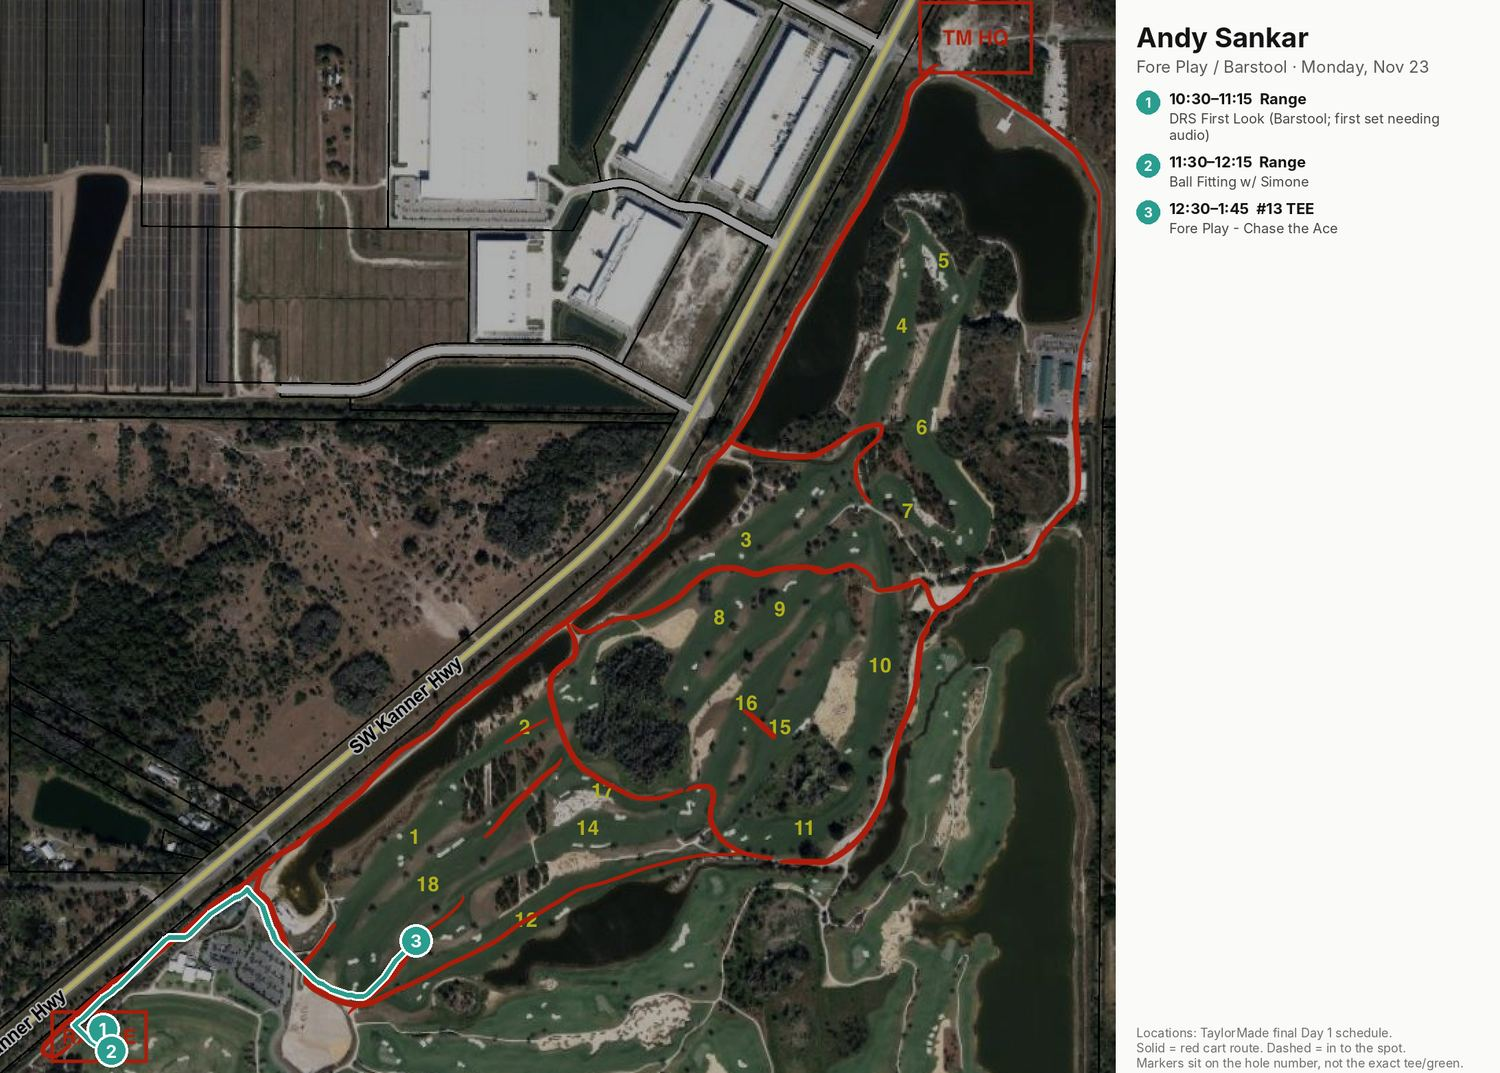
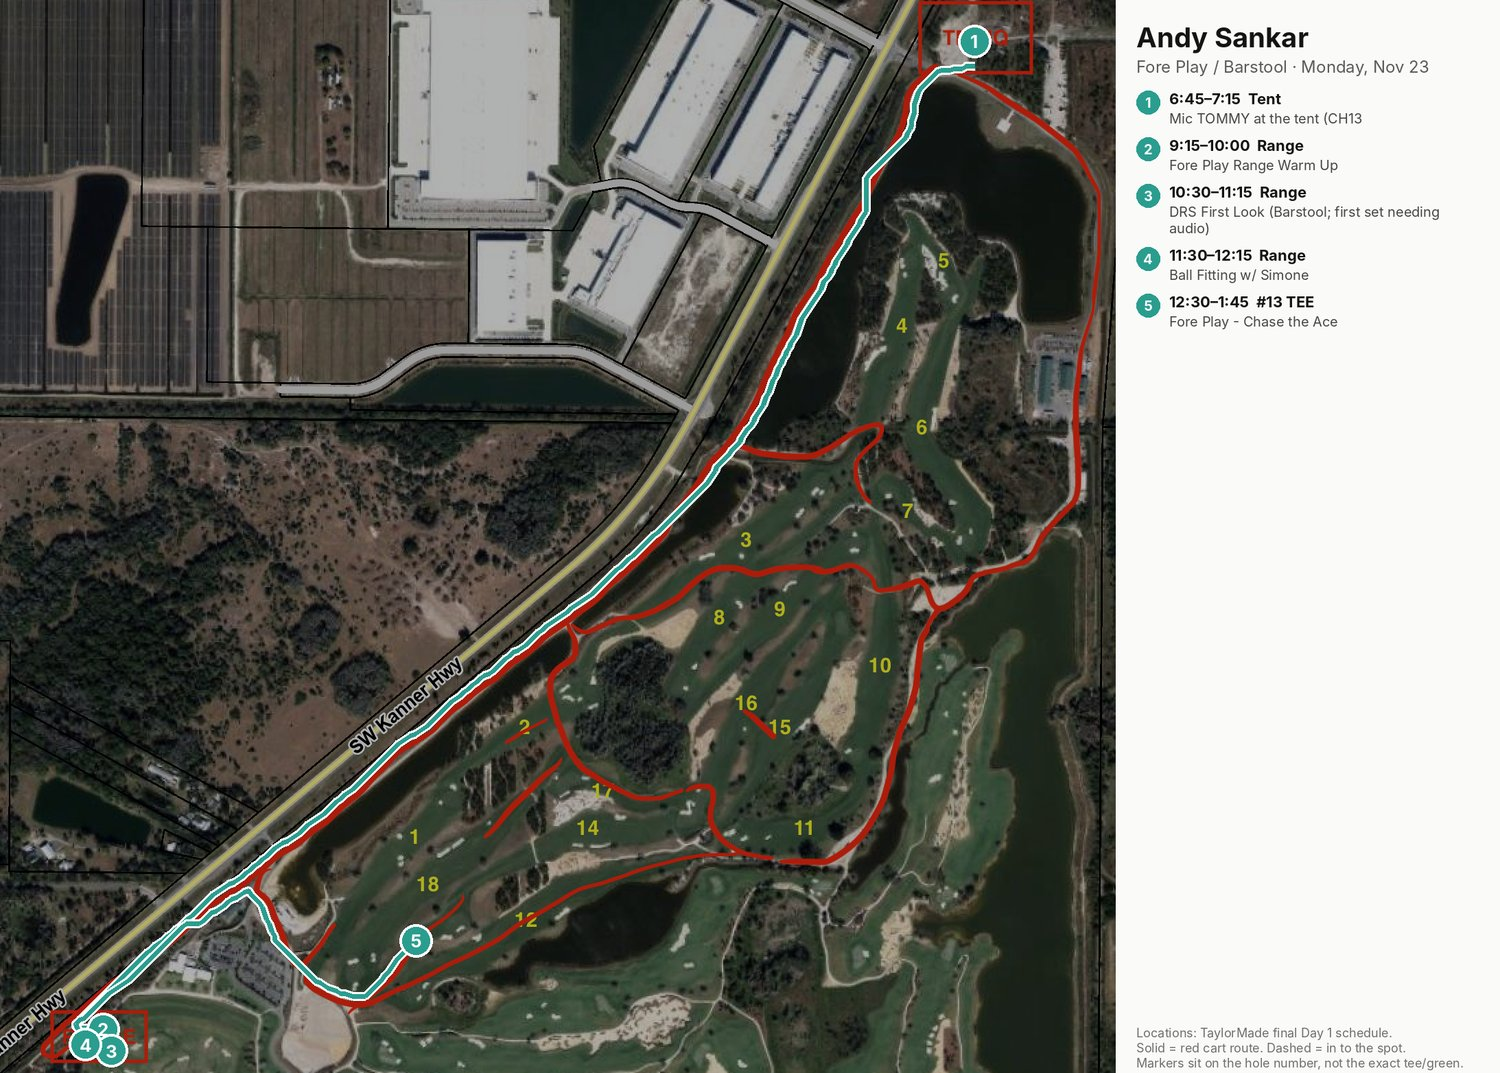
My route at top of My Day for all crew, zoomable in-page; refreshed Monday maps (tent mic-ups, Brandon range, Fore Play) + maps for Tim, Heather, Adriana, Freddie
Claude-Session: https://claude.ai/code/session_01Cu9tCEs3nu2uXZXxK9FtRu

diff --git a/index.html b/index.html
@@ -340,7 +340,7 @@ button.ml{appearance:none}
 }
 @media (max-width:640px){nav{overflow-x:auto;scrollbar-width:none;-webkit-overflow-scrolling:touch}nav::-webkit-scrollbar{display:none}nav button{flex:1 1 auto!important;padding-left:3px!important;padding-right:3px!important;letter-spacing:0!important;font-size:.74rem!important}}
 .rfl{display:flex;flex-direction:column;gap:2px;margin-top:3px;font-size:.88em}.rfl span{color:var(--ink,#222)}.rfl i{font-style:normal;color:var(--muted,#666);font-variant-numeric:tabular-nums}.md-rf{font-size:.9rem;background:rgba(31,107,69,.08);border-radius:8px;padding:8px 10px}.bu-sel{font:inherit;font-size:.78rem;padding:2px 4px;border-radius:6px;border:1px solid var(--rule,#ccc);background:var(--bg,#fff);color:inherit;max-width:100%}@media print{.bu-sel{border:0;-webkit-appearance:none;appearance:none;background:none;padding:0}}.md-pick{display:flex;gap:10px;align-items:center;margin:6px 0 12px}.md-pick label{font-weight:600}.md-pick select{font:inherit;font-size:1rem;padding:8px 10px;border-radius:8px;border:1px solid var(--line,#ccc);background:var(--bg,#fff);color:inherit;min-width:220px;max-width:100%}.md-tb{width:100%;border-collapse:collapse;margin-bottom:8px}.md-tb td{padding:8px 6px;border-bottom:1px solid var(--line,#e3e3e3);vertical-align:top}.md-t{white-space:nowrap;font-weight:700;font-variant-numeric:tabular-nums;width:1%;padding-right:12px!important}.md-w{font-weight:600}.md-loc{margin-top:2px;font-weight:700;color:var(--accent,#1f6b45)}.md-tal{color:var(--muted,#666);font-size:.9em;margin-top:2px}.md-k{font-size:.7rem;text-transform:uppercase;letter-spacing:.05em;color:var(--muted,#888);margin-top:3px}.md-lunch td{background:rgba(200,170,80,.12)}.md-map{width:100%;height:auto;border-radius:8px;border:1px solid var(--line,#ddd)}
-.rfl .gc,.gc{background:#ffe14d;color:#1b2320;font-weight:600;font-style:normal;padding:0 4px;border-radius:4px}@media (prefers-color-scheme:dark){:root:not([data-theme="light"]) .gc,:root:not([data-theme="light"]) .rfl .gc{background:none;color:#ffd400;padding:0}}:root[data-theme="dark"] .gc,:root[data-theme="dark"] .rfl .gc{background:none;color:#ffd400;padding:0}.rfl .ln span:last-child:has(.bu-sel){min-width:0;flex:1;text-align:right}.rfl .bu-sel{width:100%;min-width:0;text-overflow:ellipsis}.hh{display:grid;gap:10px;grid-template-columns:repeat(auto-fill,minmax(280px,1fr))}.hh-k{border:1px solid var(--line);border-radius:10px;padding:8px 10px;background:var(--panel)}.hh-h{margin-bottom:4px}.hh-h small{color:var(--muted)}.hh-i{display:flex;gap:8px;align-items:flex-start;padding:5px 0;border-top:1px solid var(--line);font-size:.88rem}.hh-i input{margin-top:3px;width:18px;height:18px;flex:none}.pf{border:1px solid var(--line);border-radius:10px;padding:8px 10px;margin:10px 0;background:var(--panel)}.pf-h{font-size:1rem;margin-bottom:4px}.pf-l{list-style:none;margin:0;padding:0}.pf-l li{display:flex;gap:10px;padding:5px 0;border-top:1px solid var(--line);font-size:.88rem}.pf-l li:first-child{border-top:0}.pf-t{font-variant-numeric:tabular-nums;font-weight:600;white-space:nowrap;min-width:84px}.pf-loc{color:var(--accent);font-weight:600}.pf-n small{color:var(--muted)}.kt table{width:100%;border-collapse:collapse;font-size:.85rem}.kt th{font-size:.72rem;text-transform:uppercase;letter-spacing:.04em;color:var(--muted)}.kt th,.kt td{padding:6px 5px;border-bottom:1px solid var(--line);text-align:left;vertical-align:top}.kt small{color:var(--muted);font-weight:400}.prl{display:flex;flex-wrap:wrap;gap:2px 10px;margin-top:4px;font-size:.88em}.prk{font-size:.72em;letter-spacing:.06em;text-transform:uppercase;color:var(--muted);align-self:center}.bu-sync{margin:8px 0 12px;font-size:.85rem}.bsy{color:var(--muted)}.bsy.live{color:#1f9d55;font-weight:700}.bsy.off{color:#c0392b;font-weight:700}.bulog{margin-top:6px;font-size:.8rem;color:var(--muted)}.bulog>b{display:block;color:var(--ink);margin-bottom:2px}@media print{.bu-sync{display:none}}.onbu{background:#c0392b;color:#fff;font-size:.72em;padding:1px 5px;border-radius:4px;letter-spacing:.03em;font-style:normal}.pri-off span:last-child,s.was{opacity:.45;text-decoration:line-through}.bu-sel.on{border-color:#c0392b;font-weight:600}.bu-sel{font:inherit;font-size:.78rem;padding:2px 4px;border-radius:6px;border:1px solid var(--line);background:var(--panel);color:inherit;max-width:100%}@media print{.bu-sel{border:0;-webkit-appearance:none;appearance:none;background:none;padding:0}.gc{background:#ffe14d!important;-webkit-print-color-adjust:exact;print-color-adjust:exact}}
+.rfl .gc,.gc{background:#ffe14d;color:#1b2320;font-weight:600;font-style:normal;padding:0 4px;border-radius:4px}@media (prefers-color-scheme:dark){:root:not([data-theme="light"]) .gc,:root:not([data-theme="light"]) .rfl .gc{background:none;color:#ffd400;padding:0}}:root[data-theme="dark"] .gc,:root[data-theme="dark"] .rfl .gc{background:none;color:#ffd400;padding:0}.rfl .ln span:last-child:has(.bu-sel){min-width:0;flex:1;text-align:right}.rfl .bu-sel{width:100%;min-width:0;text-overflow:ellipsis}.hh{display:grid;gap:10px;grid-template-columns:repeat(auto-fill,minmax(280px,1fr))}.hh-k{border:1px solid var(--line);border-radius:10px;padding:8px 10px;background:var(--panel)}.hh-h{margin-bottom:4px}.hh-h small{color:var(--muted)}.hh-i{display:flex;gap:8px;align-items:flex-start;padding:5px 0;border-top:1px solid var(--line);font-size:.88rem}.hh-i input{margin-top:3px;width:18px;height:18px;flex:none}.mr{position:relative;margin:6px 0}.mr-vp{overflow:auto;max-height:72vh;border:1px solid var(--line);border-radius:10px;background:#111;touch-action:pan-x pan-y;-webkit-overflow-scrolling:touch}.mr-vp.zm{cursor:grab}#mr-img{display:block;width:100%;max-width:none;height:auto;user-select:none;-webkit-user-select:none}.mr-ctl{position:absolute;right:8px;top:8px;display:flex;gap:4px}.mr-ctl button{font:inherit;font-weight:700;min-width:36px;height:34px;border-radius:8px;border:1px solid var(--line);background:var(--panel);color:var(--ink);opacity:.92}.mr-d{font-size:.6em;color:var(--muted);font-weight:500}.pf{border:1px solid var(--line);border-radius:10px;padding:8px 10px;margin:10px 0;background:var(--panel)}.pf-h{font-size:1rem;margin-bottom:4px}.pf-l{list-style:none;margin:0;padding:0}.pf-l li{display:flex;gap:10px;padding:5px 0;border-top:1px solid var(--line);font-size:.88rem}.pf-l li:first-child{border-top:0}.pf-t{font-variant-numeric:tabular-nums;font-weight:600;white-space:nowrap;min-width:84px}.pf-loc{color:var(--accent);font-weight:600}.pf-n small{color:var(--muted)}.kt table{width:100%;border-collapse:collapse;font-size:.85rem}.kt th{font-size:.72rem;text-transform:uppercase;letter-spacing:.04em;color:var(--muted)}.kt th,.kt td{padding:6px 5px;border-bottom:1px solid var(--line);text-align:left;vertical-align:top}.kt small{color:var(--muted);font-weight:400}.prl{display:flex;flex-wrap:wrap;gap:2px 10px;margin-top:4px;font-size:.88em}.prk{font-size:.72em;letter-spacing:.06em;text-transform:uppercase;color:var(--muted);align-self:center}.bu-sync{margin:8px 0 12px;font-size:.85rem}.bsy{color:var(--muted)}.bsy.live{color:#1f9d55;font-weight:700}.bsy.off{color:#c0392b;font-weight:700}.bulog{margin-top:6px;font-size:.8rem;color:var(--muted)}.bulog>b{display:block;color:var(--ink);margin-bottom:2px}@media print{.bu-sync{display:none}}.onbu{background:#c0392b;color:#fff;font-size:.72em;padding:1px 5px;border-radius:4px;letter-spacing:.03em;font-style:normal}.pri-off span:last-child,s.was{opacity:.45;text-decoration:line-through}.bu-sel.on{border-color:#c0392b;font-weight:600}.bu-sel{font:inherit;font-size:.78rem;padding:2px 4px;border-radius:6px;border:1px solid var(--line);background:var(--panel);color:inherit;max-width:100%}@media print{.bu-sel{border:0;-webkit-appearance:none;appearance:none;background:none;padding:0}.gc{background:#ffe14d!important;-webkit-print-color-adjust:exact;print-color-adjust:exact}}
 </style>
 <div id="app" class="wrap"></div>
 <script>
@@ -1297,9 +1297,25 @@ function rfHtml(w){
 }
 
 /* My Day: pick your name, see both days with locations + Monday map */
-var MAPS={dave:1,joel:1,brandon:1,michal:1,andy:1,joshl:1,rick:1};
+var MAPS={dave:1,joel:1,brandon:1,michal:1,andy:1,joshl:1,rick:1,tim:1,heather:1,adriana:1,freddie:1};
 var me='';try{me=localStorage.getItem('tm26me')||'';}catch(e){}
 (function(){var m=location.hash.match(/^#me=(\w+)/);if(m)me=m[1];})();
+/* My route: in-page zoom/pan (no link out) */
+function mrInit(){var vp=document.getElementById('mr-vp'),im=document.getElementById('mr-img');if(!vp||!im)return;var z=1;
+ function set(nz,cx,cy){nz=Math.max(1,Math.min(5,nz));var r=vp.getBoundingClientRect();if(cx==null){cx=r.width/2;cy=r.height/2;}var fx=(vp.scrollLeft+cx)/im.offsetWidth,fy=(vp.scrollTop+cy)/im.offsetHeight;z=nz;im.style.width=(z*100)+'%';vp.scrollLeft=fx*im.offsetWidth-cx;vp.scrollTop=fy*im.offsetHeight-cy;vp.classList.toggle('zm',z>1);}
+ vp.parentNode.querySelectorAll('[data-mrz]').forEach(function(b){b.onclick=function(){var k=b.getAttribute('data-mrz');set(k==='+'?z*1.5:k==='-'?z/1.5:1);};});
+ vp.addEventListener('dblclick',function(e){var r=vp.getBoundingClientRect();set(z>1?1:2.5,e.clientX-r.left,e.clientY-r.top);});
+ vp.addEventListener('wheel',function(e){if(!e.ctrlKey&&!e.metaKey)return;e.preventDefault();var r=vp.getBoundingClientRect();set(z*(e.deltaY<0?1.15:1/1.15),e.clientX-r.left,e.clientY-r.top);},{passive:false});
+ var pd=null,lt=0;
+ vp.addEventListener('touchstart',function(e){if(e.touches.length===2){var a=e.touches[0],b=e.touches[1],r=vp.getBoundingClientRect();pd={d:Math.hypot(a.clientX-b.clientX,a.clientY-b.clientY),z:z,cx:(a.clientX+b.clientX)/2-r.left,cy:(a.clientY+b.clientY)/2-r.top};}
+  else if(e.touches.length===1){var now=Date.now();if(now-lt<300){var r2=vp.getBoundingClientRect();set(z>1?1:2.5,e.touches[0].clientX-r2.left,e.touches[0].clientY-r2.top);e.preventDefault();}lt=now;}},{passive:false});
+ vp.addEventListener('touchmove',function(e){if(pd&&e.touches.length===2){e.preventDefault();var a=e.touches[0],b=e.touches[1];set(pd.z*Math.hypot(a.clientX-b.clientX,a.clientY-b.clientY)/pd.d,pd.cx,pd.cy);}},{passive:false});
+ vp.addEventListener('touchend',function(e){if(e.touches.length<2)pd=null;});
+ var dr=null;vp.addEventListener('mousedown',function(e){if(z<=1)return;dr={x:e.clientX,y:e.clientY,l:vp.scrollLeft,t:vp.scrollTop};e.preventDefault();});
+ window.addEventListener('mousemove',function(e){if(!dr)return;vp.scrollLeft=dr.l-(e.clientX-dr.x);vp.scrollTop=dr.t-(e.clientY-dr.y);});
+ window.addEventListener('mouseup',function(){dr=null;});
+}
+
 function myday(){
  var M1=Board.model(CREW,'d1'),M2=Board.model(CREW,'d2');var who=M1.who;
  var opts='<option value="">Choose your name…</option>'+M1.crew.map(function(c){return '<option value="'+c.id+'"'+(c.id===me?' selected':'')+'>'+esc(c.name)+'</option>';}).join('');
@@ -1315,11 +1331,11 @@ function myday(){
   }).join('');
   return '<h2>'+lbl+'</h2>'+(rows?'<table class="md-tb">'+rows+'</table>':'<p class="note">Nothing scheduled.</p>');
  };
+ if(MAPS[c.id])h+='<h2>My route <small class="mr-d">Monday</small></h2><div class="mr"><div class="mr-vp" id="mr-vp"><img id="mr-img" src="maps/'+c.id+'-mon.jpg?v=2" alt="Monday route map for '+esc(c.name)+'" draggable="false"></div><div class="mr-ctl"><button data-mrz="-" aria-label="Zoom out">−</button><button data-mrz="0">Fit</button><button data-mrz="+" aria-label="Zoom in">+</button></div></div><p class="note">Pinch, double-tap or use + / − to zoom; drag to move around. Solid line follows the red cart routes; dashed is the last bit in to the spot. Markers sit on the hole number.</p>';
  if(c.id==='freddie')h+='<h2>Kit tuning: before and after the range break</h2>'+kitTune();
  var U=UNITRF[c.id];if(U)h+='<p class="md-rf">Your field channels ('+U[0]+'): <b class="gc">'+U[1]+'</b> · '+U[2]+' MHz. Talent TX are listed under each set (same both days).</p>';
  h+='<p class="note"><b>'+esc(c.name)+'</b> · '+esc(c.role)+'. Monday call 6:15 AM at the production tent; Tuesday 6:00–6:15 AM. Locations from TaylorMade\u2019s schedule (Monday final; Tuesday from their Day 2 tab). Link straight to this page: <b>schedule.theorysound.com/#me='+c.id+'</b></p>';
  h+=day('Monday, Nov 23',M1.lanes[c.id]||[],'d1');
- if(MAPS[c.id])h+='<h2>Monday route</h2><a href="maps/'+c.id+'-mon.jpg" target="_blank" rel="noopener"><img class="md-map" src="maps/'+c.id+'-mon.jpg" alt="Monday route map for '+esc(c.name)+'"></a><p class="note">Solid line follows the red cart routes; dashed is the last bit in to the spot. Markers sit on the hole number; tap to open full size.</p>';
  h+=day('Tuesday, Nov 24',M2.lanes[c.id]||[],'d2');
  return h;
 }
@@ -1332,7 +1348,7 @@ function render(){
  document.getElementById('app').innerHTML=h;
  document.body.classList.toggle('pt',tab==='talent');
  var pd=document.querySelector('.tal-pd');if(pd){var n=new Date();pd.textContent=n.toLocaleDateString('en-US',{month:'short',day:'numeric'})+' '+n.toLocaleTimeString('en-US',{hour:'numeric',minute:'2-digit'});}
- hhRestore();
+ hhRestore();mrInit();
  if(tab==='timeline'){MTL.mount(document.getElementById('tl-root'),CREW);var pfl=document.getElementById('prod-flow');if(pfl)pfl.innerHTML=prodFlow();}
  var sel=document.getElementById('md-sel');if(sel)sel.addEventListener('change',function(){me=sel.value;try{localStorage.setItem('tm26me',me);}catch(x){}render();});
 }
